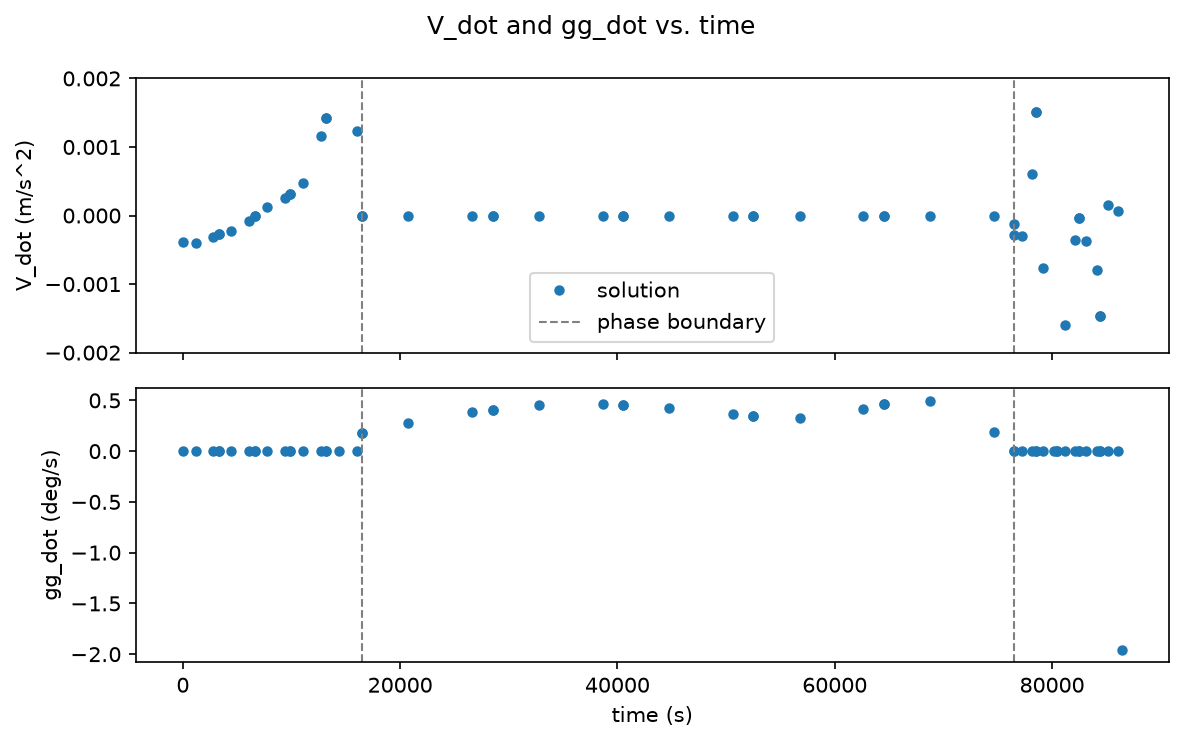
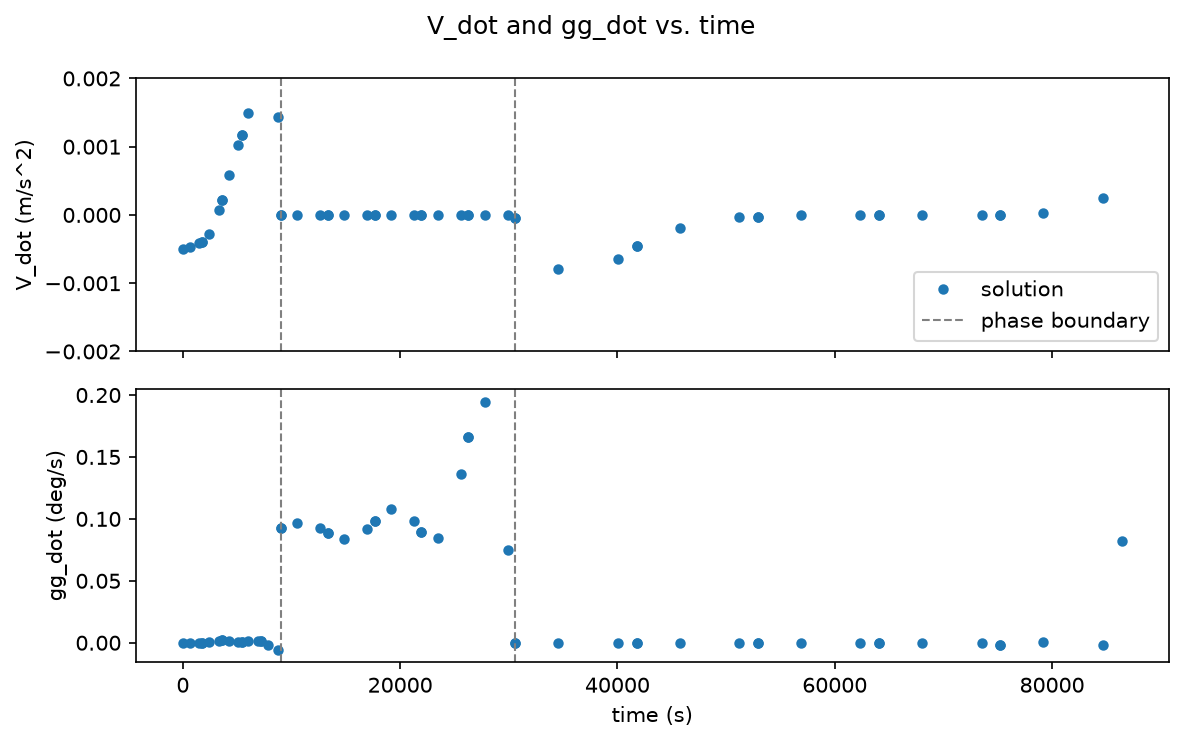
IPOPT

diff --git a/V2 - Longitudinal Profile/solving_longitudinal.py b/V2 - Longitudinal Profile/solving_longitudinal.py
@@ -14,7 +14,7 @@ from datetime import datetime
 # Mission parameters - kept as module-level defaults (rather than only inside main()'s
 # signature) since solving_cascade_V3.py reads solving_longitudinal.total_duration
 # directly, to size the lateral phase's duration without duplicating the constant.
-low_altitude = 10000.0  # m -> Lower altitudes -> Lower stall speed -> Decrease in Speed -> Decrease in energy consumption (V***3)
+low_altitude = 11100.0  # m -> Lower altitudes -> Lower stall speed -> Decrease in Speed -> Decrease in energy consumption (V***3)
 initial_altitude = 12000.0  # m 
 cruise_altitude = 17000.0  # m
 maximum_altitude = 24000.0 # m
@@ -128,18 +128,18 @@ def main(*, M_sw=3.7, mbat_sw=2.0, start_date=datetime(2012, 6, 1, 6, 0), lat=37
                        solar_cell_efficiency=solar_cell_efficiency, vnorm=vnorm)
 
     # Rough estimates for the initial guess only (not bounds) - adjust as needed
-    climb_duration_guess = 16500.0
+    climb_duration_guess = 9000.0
     cruise_duration_guess = 60000.0
     descent_duration_guess = total_duration - climb_duration_guess - cruise_duration_guess
 
     # Rough estimate of DV_sw (avg drag-dissipation power density) - low_altitude..cruise_altitude
     # is thin air with much less drag than the old sea-level-anchored guess assumed.
-    dv_sw_guess_rate = 12
+    dv_sw_guess_rate = 15
     # Rough estimate of TV_sw (avg propulsion power density drawn by the propeller) - order of
     # magnitude from Tp*Tinst_sw*V/mu_prop at representative Tp~0.3, V~20.
-    tv_sw_guess_rate = 80
+    tv_sw_guess_rate = 23
     # Rough estimate of Psol_sw (avg solar power density, day+night averaged over the mission)
-    psol_sw_guess_rate = 70
+    psol_sw_guess_rate = 135
     # Rough estimate of Net_sw = Psol_sw - DV_sw - TV_sw, used only to seed Net_sw_int's guess
     net_sw_guess_rate = psol_sw_guess_rate - dv_sw_guess_rate - tv_sw_guess_rate
 
@@ -161,12 +161,17 @@ def main(*, M_sw=3.7, mbat_sw=2.0, start_date=datetime(2012, 6, 1, 6, 0), lat=37
     # Initialize the Problem and the optimization driver
     prob = om.Problem(model=om.Group(), name='solving_longitudinal')
 
-    prob.driver = om.ScipyOptimizeDriver() # Or pyOptSparseDriver(optimizer='IPOPT')
-    prob.driver.options['optimizer'] = 'SLSQP'
-    prob.driver.options['maxiter'] = 5000
-    prob.driver.options['tol'] = 1e-4
-    prob.driver.opt_settings['maxiter'] = 5000
-    prob.driver.opt_settings['ftol'] = 1e-4
+    # prob.driver = om.ScipyOptimizeDriver()
+    # prob.driver.options['optimizer'] = 'SLSQP'
+    # prob.driver.options['maxiter'] = 5000
+    # prob.driver.options['tol'] = 1e-4
+    # prob.driver.opt_settings['maxiter'] = 5000
+    # prob.driver.opt_settings['ftol'] = 1e-4
+
+    prob.driver = om.pyOptSparseDriver(optimizer='IPOPT')
+    prob.driver.opt_settings['max_iter'] = 5000
+    prob.driver.opt_settings['tol'] = 1e-4
+
 
     prob.driver.declare_coloring()
 
@@ -206,7 +211,7 @@ def main(*, M_sw=3.7, mbat_sw=2.0, start_date=datetime(2012, 6, 1, 6, 0), lat=37
     climb.add_timeseries_output('gg_dot')
 
     # Phase2 : Cruise
-    cruise.set_time_options(fix_initial=False, duration_bounds=(3*10*5*60, total_duration), duration_ref=1e4)
+    cruise.set_time_options(fix_initial=False, duration_bounds=(3*10*12*60, total_duration), duration_ref=1e4)
     cruise.add_state('h', rate_source='h_dot', fix_initial=False, fix_final=False, units='m',  lower=0.0, upper=maximum_altitude, ref=1e4, defect_ref=1e4)
     cruise.add_state('DV_sw_int', rate_source='DV_sw', fix_initial=False, fix_final=False, units='J/m**2', ref=1e6, defect_ref=1e6)
     cruise.add_state('TV_sw_int', rate_source='TV_sw', fix_initial=False, fix_final=False, units='J/m**2', ref=1e6, defect_ref=1e6)
@@ -220,6 +225,7 @@ def main(*, M_sw=3.7, mbat_sw=2.0, start_date=datetime(2012, 6, 1, 6, 0), lat=37
     cruise.add_control('aa', lower=np.radians(-5), upper=np.radians(10), units='rad')
     cruise.add_parameter('gg', val=0.0, opt=False, units='rad')
     cruise.add_path_constraint('Vmargin', lower=0.0, units='m/s')  # stay above stall speed
+    # cruise.add_path_constraint('V_dot', equals=0.0, units='m/s**2', ref=0.01)
     # cruise.add_path_constraint('gg_dot', lower=0.005, upper=0.005,  units='rad/s')  # stay above stall speed
     cruise.add_timeseries_output('gg')
     cruise.add_timeseries_output('V_dot')  # commented out for debugging
@@ -245,12 +251,11 @@ def main(*, M_sw=3.7, mbat_sw=2.0, start_date=datetime(2012, 6, 1, 6, 0), lat=37
     descent.add_path_constraint('Vmargin', lower=0.0, units='m/s')  # stay above stall speed
     descent.add_timeseries_output('V_dot')  # commented out for debugging
     descent.add_timeseries_output('gg_dot')
-    # descent.add_objective('DV_sw_int', loc='final', ref=1e1)
-    # descent.add_objective('Psol_sw_int', loc='final', ref=-1e5)
+
     descent.add_objective('Net_sw_int', loc='final', ref=-5e6)  # maximize Net_sw = Psol_sw - DV_sw + Epot_sw
 
     traj.link_phases(phases=['climb', 'cruise', 'descent'],
-                      vars=['h', 'time', 'DV_sw_int', 'TV_sw_int', 'Psol_sw_int', 'Net_sw_int', 'Epot_sw_int', 'SOC', 'V', 'aa', 'Tp'])
+                      vars=['h', 'time', 'DV_sw_int', 'TV_sw_int', 'Psol_sw_int', 'Net_sw_int', 'Epot_sw_int', 'SOC', 'V', 'aa', 'Tp', 'gg'])
 
     prob.model.linear_solver = om.DirectSolver()
 
@@ -306,8 +311,8 @@ def main(*, M_sw=3.7, mbat_sw=2.0, start_date=datetime(2012, 6, 1, 6, 0), lat=37
     descent.set_state_val('SOC', [soc_cruise_end, soc_cruise_end + descent_duration_guess * net_sw_guess_rate / battery_max_energy])
     descent.set_state_val('V', [25, 15])
     descent.set_control_val('Tp', [0.2, 0.2])
-    descent.set_state_val('gg', [0.0, np.radians(-2)])
-    descent.set_control_val('aa', [np.radians(2), np.radians(2)])
+    descent.set_state_val('gg', [np.radians(-2), np.radians(2)])
+    descent.set_control_val('aa', [np.radians(0), np.radians(2)])
 
     start_time = time.perf_counter()
 
@@ -324,7 +329,7 @@ def main(*, M_sw=3.7, mbat_sw=2.0, start_date=datetime(2012, 6, 1, 6, 0), lat=37
     # plots the solution, with no simulation curves and no warnings.
     exp_out = None
     simulation_record_file = 'simulation.db'
-    exp_out = traj.simulate(record_file=simulation_record_file)
+    # exp_out = traj.simulate(record_file=simulation_record_file)
 
     # Check the results
     print('Climb duration (s):', prob.get_val('traj.climb.t_duration')[0])
@@ -356,6 +361,10 @@ if __name__ == '__main__':
     # back from this module, and importing it up top (before paths_file is defined
     # below) breaks any plain `import solving_longitudinal` from another script (e.g.
     # solving_cascade_V3.py) with a circular-import ImportError.
+    M_sw = 3.7
+    g = 9.81
+    CLmax = 1.2
+
     import plot_longitudinal
-    main()
-    plot_longitudinal.main()
+    main(M_sw = M_sw, g = g, CLmax = CLmax)
+    plot_longitudinal.main(M_sw = M_sw, g = g, CLmax = CLmax)

diff --git a/V2 - Longitudinal Profile/plot_longitudinal.py b/V2 - Longitudinal Profile/plot_longitudinal.py
@@ -52,7 +52,7 @@ def plot_solsim(ax, t_sol, y_sol, t_sim, y_sim, color=None, label=None):
         ax.plot(t_sim, y_sim, '-', label=sim_label, **kwargs)
 
 
-def main():
+def main(M_sw = 3.7, g = 9.81, CLmax = 1.2):
     with open(paths_file) as f:
         paths = json.load(f)
 
@@ -121,7 +121,7 @@ def main():
     # (sparser, node-only) trace.
     h_ref = h_sim if have_sim else h_sol
     rho_ref = Atmosphere(h_ref).density
-    V_stall_ref = np.sqrt(2 * M_Sw * g / (rho_ref * CLmax))
+    V_stall_ref = np.sqrt(2 * M_sw * g / (rho_ref * CLmax))
 
     ax_stall.plot(h_ref, V_stall_ref, 'k--', label='V_stall')
     ax_stall.plot(h_ref, 1.2 * V_stall_ref, 'r--', label='1.2 x V_stall (margin threshold)')
